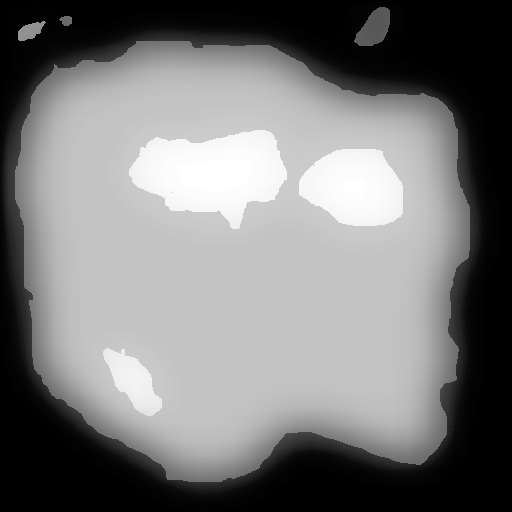
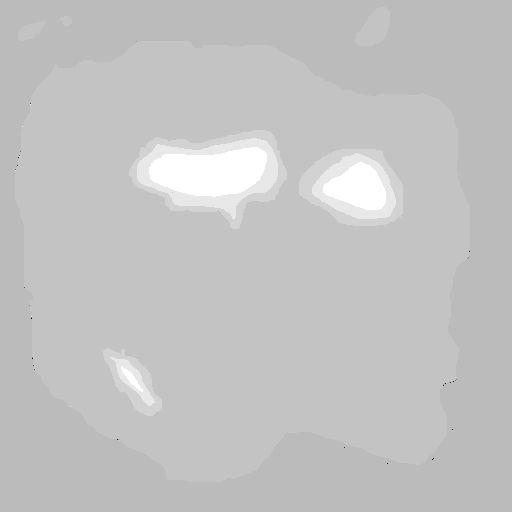
letzte stunde

diff --git a/Main.java b/Main.java
@@ -16,8 +16,11 @@ public class Main {
         boolean multiplayer = false;
         GLTerrain  Boden1;
         Boden1 = new GLTerrain(0, 0,0, "map.png");
-        Boden1.setzeSkalierung(10);
-        Boden1.setzePosition(0,-1960,0);
+        Boden1.setzeSkalierung(10,3,10);
+        Boden1.setzePosition(0,-590,0);
+        Boden1.setzeTextur("mapTextur.png");
+        Baum Baum1;
+        Baum1 = new Baum(-350,0,200,1);
         
         if (multiplayer)
         {  ///////// 2Spielerd
@@ -29,7 +32,7 @@ public class Main {
             Enemy Enemys[] = new Enemy[Feinde];
             for (int i=0 ; i<Feinde; i++){
                 FeindeBool[i] = true;
-                Enemys[i] = new Enemy(i,Global,Player1,false);
+                Enemys[i] = new Enemy(i,Global,Feinde,Player1,false);
             }
             for (int i=0 ; i<Feinde; i++){
                
@@ -37,10 +40,10 @@ public class Main {
             }
 
         
-            Waffe Waffe1 = new Waffe(Enemys,Global,FeindeBool);
+            Waffe Waffe1 = new Waffe(Enemys,Global,Feinde,FeindeBool);
             Player1.ubergeben(Waffe1);
 
-            Waffe Waffe2 = new Waffe(Enemys,Global,FeindeBool);
+            Waffe Waffe2 = new Waffe(Enemys,Global,Feinde,FeindeBool);
             Player2.ubergeben(Waffe2);
 
             boolean running = true;
@@ -59,12 +62,12 @@ public class Main {
             
             Feinde = 4;
             Global.setVariable(Feinde);
-            Player0.ubergeben(Global);
+            Player0.ubergeben(Global,Feinde);
             boolean FeindeBool[] = new boolean[Feinde];
             Enemy Enemys[] = new Enemy[Feinde];
             for (int i=0 ; i<Feinde; i++){
                 FeindeBool[i] = true;
-                Enemys[i] = new Enemy(i,Global,Player0, false);
+                Enemys[i] = new Enemy(i,Global,Feinde,Player0, false);
             }
             for (int i=0 ; i<Feinde; i++){
                
@@ -75,35 +78,35 @@ public class Main {
 
         Hitbox [] HitBoxen= new Hitbox[20];
             
-            Haus Haus1 = new Haus(300, 0, 100, 100, 80, 500,90); 
+            //Haus Haus1 = new Haus(300, 0, 100, 100, 80, 500,90); 
 
             Haus Haus2 = new Haus(0, 0, 300, 200, 100, 200,90);
 
-            Haus Haus3 = new Haus(-300, 35, 100, 100, 80, 50,0);
+            Haus Haus3 = new Haus(-350, 35, 100, 100, 80, 50,0);
 
-            Haus Haus4 = new Haus(400, 0, -100, 100, 80, 100,0);
+            //Haus Haus4 = new Haus(400, 0, -100, 100, 80, 100,0);
 
-            Haus Haus5= new Haus(300, 0, 500, 100, 80, 500,90); 
+            //Haus Haus5= new Haus(300, 0, 500, 100, 80, 500,90); 
 
             Haus Haus6 = new Haus(500, 0, 700, 200, 100, 200,0);
 
-            Haus Haus7 = new Haus(300, 35, 300, 100, 80, 50,0);
+            //Haus Haus7 = new Haus(300, 35, 300, 100, 80, 50,0);
 
             Haus Haus8 = new Haus(700, 0, 300, 150, 200, 150,0);
 
             HitBoxen[0]= Player0.gibHitBox();
-            HitBoxen[1]= Haus1.gibHitBox();
-            HitBoxen[2]= Haus2.gibHitBox();
+            //HitBoxen[1]= Haus1.gibHitBox();
+            //HitBoxen[2]= Haus2.gibHitBox();
             HitBoxen[3]= Haus3.gibHitBox();
-            HitBoxen[4]= Haus4.gibHitBox();
-            HitBoxen[5]= Haus5.gibHitBox();
+            //HitBoxen[4]= Haus4.gibHitBox();
+           // HitBoxen[5]= Haus5.gibHitBox();
             HitBoxen[6]= Haus6.gibHitBox();
-            HitBoxen[7]= Haus7.gibHitBox();
+            //HitBoxen[7]= Haus7.gibHitBox();
             HitBoxen[8]= Haus8.gibHitBox();
            
 
         
-            Waffe Waffe1 = new Waffe(Enemys,Global,FeindeBool);
+            Waffe Waffe1 = new Waffe(Enemys,Global,Feinde,FeindeBool);
             Player0.ubergeben(Waffe1);
             Player0.ubergeben(HitBoxen);
 

diff --git a/Enemy.java b/Enemy.java
@@ -50,14 +50,39 @@ public class Enemy {
  
     int Feinde;
     Global_Variables Global;
-    public Enemy(int nummer,Global_Variables Global2,Player Player2,boolean stationaer2){
+    public Enemy(int nummer,Global_Variables Global2,int Feinde2,Player Player2,boolean stationaer2){
         feindnummer= nummer;
         stationaer = stationaer2;
         if( stationaer){ Geschwindigkeit = 0.0;}
         Player = Player2;
         Global = Global2;
-        Feinde = Global.getFeinde();
-        Body = new GLQuader( ranNummer(-500,500) , 0,ranNummer(-500, 500),5, 25, 5);
+        Feinde =Feinde2;
+        
+        
+    }
+
+    public void spawn(){
+        int x;
+        int z;
+        x = ranNummer(minx, maxx);
+        z = ranNummer(minz, maxz);
+        
+        
+        for (int b =0; HitBoxen[b]!= null; b++){
+                 
+            if (HitBoxen[b].beruehrt(x, 0,z)){
+                if (b!=feindnummer){
+                    x = ranNummer(minx, maxx);
+                    z = ranNummer(minz, maxz);
+                    b =0;
+
+                }
+            }
+        }
+
+
+
+        Body = new GLQuader( x, 0,z,5, 25, 5);
         Body.setzeFarbe(1,0,0);
 
         Head = new GLQuader(  Body.gibX()+2 , 10, Body.gibZ(),2, 2, 4);
@@ -84,8 +109,7 @@ public class Enemy {
                 pos.addiere(SpielerRichtung);
             }
             Rayteile[i] = new GLKugel( pos , 1);
-        }
-    }
+        }}
 
     public void Update()
     {
@@ -210,13 +234,17 @@ public class Enemy {
         zAlt = Body.gibZ();
 
             GLVektor Richtung =  new GLVektor(x, 0, z, Body.gibX(), 0, Body.gibZ());
+            Richtung.skaliereAuf(Geschwindigkeit);
+            GLVektor test = new GLVektor(Body.gibPosition());
+            test.addiere(Richtung);
             for (int i =0; HitBoxen[i]!= null;i++){
-                if (HitBoxen[i].beruehrt(Body.gibPosition())){
+                if (HitBoxen[i].beruehrt(test)){
                     ZielX = randNum( minx,maxx);
                     ZielZ = randNum( minz,maxz);
+                    return;
                 }
             }
-            Richtung.skaliereAuf(Geschwindigkeit);
+            
             Body.verschiebe(Richtung);
             Head.verschiebe(Richtung);
             sicht.verschiebe(Richtung); 
@@ -360,16 +388,8 @@ public class Enemy {
     }
 
     public void ubergeben(Hitbox pHitBoxen[]){
-         HitBoxen = pHitBoxen;
-         // fals in einem objekt spawneda
-         for (int i =0; HitBoxen[i]!= null;i++){
-                if (HitBoxen[i].beruehrt(Body.gibPosition())){
-                   double Geschwindigkeit2 = Geschwindigkeit;
-                   Geschwindigkeit = 500;
-                   geheNach(randNum( -500,500), randNum( -500,500));
-                   Geschwindigkeit = Geschwindigkeit2;
-                }
-            }
+        HitBoxen = pHitBoxen;
+        spawn();
     }
 
     public void ubergeben( boolean FeindeBool2[]){

diff --git a/Waffe.java b/Waffe.java
@@ -1,4 +1,4 @@
-import java.beans.FeatureDescriptor;
+
 
 import GLOOP.*;
 public class Waffe {
@@ -74,11 +74,11 @@ public class Waffe {
 
     Global_Variables Global;
     int Feinde;
-    public  Waffe(Enemy Enemys2[],Global_Variables Global2,boolean FeindeBool2[])
+    public  Waffe(Enemy Enemys2[],Global_Variables Global2,int Feinde2,boolean FeindeBool2[])
     {
         FeindeBool = FeindeBool2;
         Global =Global2;
-        Feinde = Global.getFeinde();
+        Feinde = Feinde2;
         Enemys = Enemys2;
         // stein
         Stein = new GLKugel(3, 8, 493.5, 0.5);
@@ -324,7 +324,7 @@ public class Waffe {
                         }
                     }
                 }
-            }else{
+            }/*else{
                 if (Feinde> i+1&& Enemys[i+1]!= null){
                 if (FeindeBool[i+1] == true){
                     Enemys[i]= Enemys[i+1];
@@ -335,7 +335,7 @@ public class Waffe {
                 }
                 
                 }
-            }
+            }*/
         }
         
     } 

diff --git a/Player.java b/Player.java
@@ -57,9 +57,9 @@ public class Player {
          Waffe.ubergeben(this,Camera, HitBoxen);
          Camera.ubergeben(HitBoxen);
     }
-    public void ubergeben( Global_Variables Global2){
+    public void ubergeben( Global_Variables Global2,int Feinde2){
         Global = Global2;
-        Feinde = Global.getFeinde();
+        Feinde = Feinde2;
     }
 
     public void Update (){
@@ -75,12 +75,12 @@ public class Player {
 
         if (Playernumber == 1||Playernumber == 0) {
             
-            /*if (Tastatur.istGedrueckt(' ')) {
+            if (Tastatur.istGedrueckt(' ')) {
             
                 GLVektor Richtung = new GLVektor(0,1,0);
                 Richtung.skaliereAuf(Geschwindigkeit);
                 Camera.moveCameraRel(Richtung);
-            }*/
+            }
             if (Tastatur.istGedrueckt('w')) {
             
                 GLVektor Richtung = KameraMain.gibBlickrichtung();

diff --git a/Baum.java b/Baum.java
@@ -1,0 +1,27 @@
+ import GLOOP.*;
+ public class Baum {
+ int x;
+    int y;
+    int z;
+    double size;
+    GLZylinder Stamm;
+    GLKugel Krone;
+    Hitbox HitBox;
+    int hohe = 70;
+    int breite =3;
+    public Baum(int px, int py, int pz, double psize){
+    hohe = (int) (hohe*psize);
+    x= px;
+    y= py;
+    z= pz;
+    size = psize;
+    Stamm = new GLZylinder(x,y+hohe/2,z,breite,hohe);
+    Krone = new GLKugel(x,y+hohe,z, psize);
+    HitBox = new Hitbox(Stamm.gibPosition(), breite, hohe, breite, true);
+    
+   }
+   public Hitbox gibHitBox()
+    {return  HitBox;}
+
+}
+

diff --git a/Global_Variables.java b/Global_Variables.java
@@ -2,7 +2,9 @@ public class Global_Variables {
     static int Feinde = 0;
     
     
-    public void changeVariable(int change){ Feinde = Feinde+ change;}
+    public void changeVariable(int change){ Feinde = Feinde+ change;
+        System.out.println(Feinde);
+    }
     public void setVariable(int Feinde2){Feinde = Feinde2;}
     public int getFeinde(){return Feinde;}
     
